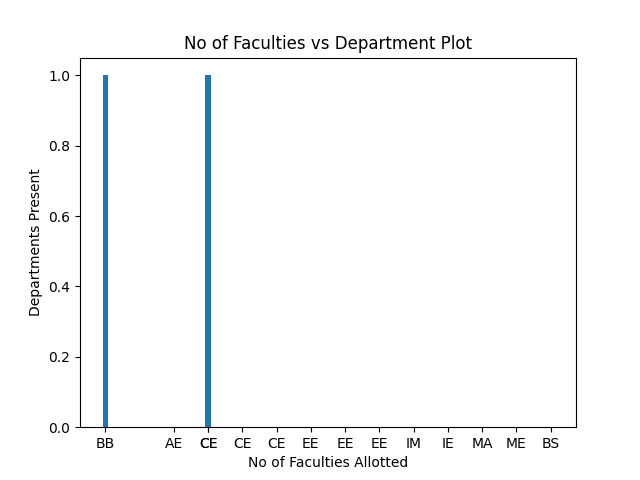
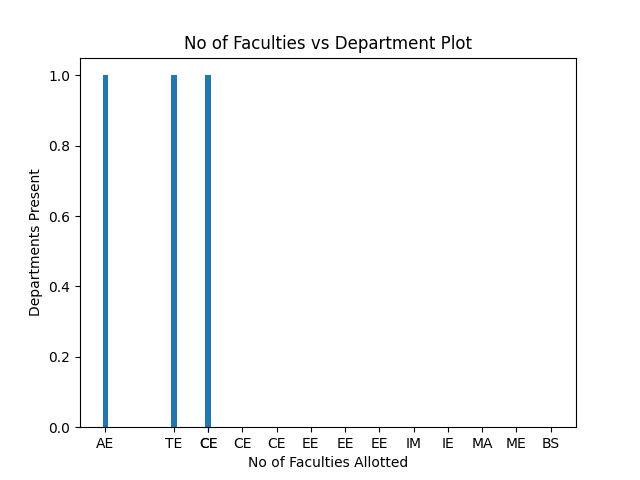
No of Faculties vs Department Plot

Changed region(s): [[0.25, 0.1562, 0.2812, 0.9375], [0.1562, 0.9062, 0.1875, 0.9375]]

diff --git a/see_invig_alloc.py b/see_invig_alloc.py
@@ -1,0 +1,190 @@
+import mysql.connector
+import math
+import random
+import matplotlib.pyplot as plt
+
+import mysql.connector
+from mysql.connector import Error
+
+
+def connect():
+    try:
+        connection = mysql.connector.connect(host="localhost",
+                                             database="SEE_INV",
+                                             user="root",
+                                             password="root@123")
+        if connection.is_connected():
+            db_Info = connection.get_server_info()
+            print("Connected to MySQL Server version ", db_Info)
+            cursor = connection.cursor(buffered=True)
+            cursor.execute("select database();")
+            record = cursor.fetchone()
+            print("You're connected to database: ", record)
+            return cursor, connection
+    except Error as e:
+        print("Error while connecting to MySQL", e)
+
+
+def get_possible_exams(cursor, connection):
+    query = "select * from EXAM"
+    cursor.execute(query)
+    records = cursor.fetchall()
+    exams = []
+    for row in records:
+        exams.append(row)
+    exams = set(exams)
+    exams = list(exams)
+    query = "select Subject_ID from SUBJECT"
+    cursor.execute(query)
+    records = cursor.fetchall()
+    subjects = []
+    for row in records:
+        subjects.append(row)
+    subjects = set(subjects)
+    subjects = list(subjects)
+    possible_exams = []
+    for i in exams:
+        for j in subjects:
+            possible_exams.append([i[0], i[1], j[0]])
+    return possible_exams
+
+
+def insert_into_has_exam(academic_year, exam_type, subject_id, cursor, connection):
+    query = "insert into HAS_EXAM(academic_year, exam_type, subject_id) values(%s, %s, %s)"
+    cursor.execute(query, (academic_year, exam_type, subject_id))
+    connection.commit()
+
+
+def insert_into_enrolled(academic_year, exam_type, subject_id, cursor, connection):
+    query = "insert into ENROLLED(academic_year, exam_type, subject_id) values(%s, %s, %s)"
+    cursor.execute(query, (academic_year, exam_type, subject_id))
+    connection.commit()
+
+
+def update_enrolled(subject_id, students_enrolled, exam_type, academic_year, cursor, connection):
+    query = "update ENROLLED set students_enrolled = %s where Subject_ID = %s and Exam_Type = %s and Academic_Year = %s"
+    cursor.execute(query, (students_enrolled, subject_id, exam_type, academic_year))
+    connection.commit()
+
+
+def insert_into_classroom(classroom_id, capacity, department_id, cursor, connection):
+    query = "insert into CLASSROOM values(%s, %s, %s)"
+    cursor.execute(query, (classroom_id, capacity, department_id))
+    connection.commit()
+
+
+def get_students_enrolled(subject_id, exam_type, academic_year, cursor, connection):
+    query = "select Students_Enrolled from ENROLLED where Subject_ID = %s and Exam_Type = %s and Academic_Year = %s"
+    cursor.execute(query, (subject_id, exam_type, academic_year))
+    records = cursor.fetchall()
+    students_enrolled = records[0][0]
+    return students_enrolled
+
+
+def get_classrooms(cursor, connection):
+    query = "select Classroom_ID, Capacity, Department_ID from CLASSROOM"
+    cursor.execute(query)
+    records = cursor.fetchall()
+    classrooms = []
+    for row in records:
+        classrooms.append(row)
+    return classrooms
+
+
+def assign_classrooms(subject_id, exam_type, academic_year, cursor, connection):
+    students_enrolled = get_students_enrolled(subject_id, exam_type, academic_year, cursor, connection)
+    available_classrooms = get_classrooms(cursor, connection)
+    used_classrooms = []
+    for i in available_classrooms:
+        x = random.randint(0, len(available_classrooms) - 1)
+        if (students_enrolled > 0 and available_classrooms[x] not in used_classrooms):
+            if (students_enrolled <= available_classrooms[x][1]):
+                used_classrooms.append(available_classrooms[x])
+                # print(available_classrooms[x][0]+', '+available_classrooms[x][2])
+                students_enrolled = 0
+            else:
+                used_classrooms.append(available_classrooms[x])
+                # print(available_classrooms[x][0]+', '+available_classrooms[x][2])
+                students_enrolled = students_enrolled - available_classrooms[x][1]
+    t = len(used_classrooms)
+    query = "update HAS_EXAM set required_invigilators = %s where Subject_ID = %s and Exam_Type = %s and Academic_Year = %s"
+    cursor.execute(query, (t, subject_id, exam_type, academic_year))
+    connection.commit()
+    for i in used_classrooms:
+        query = "insert into assigned_classrooms values(%s, %s, %s, %s, %s)"
+        cursor.execute(query, (i[0], subject_id, exam_type, academic_year, i[2]))
+
+
+def get_groups(cursor, connection):
+    query = "select Group_ID, Department_ID, Invig_count from FACULTY"
+    cursor.execute(query)
+    records = cursor.fetchall()
+    answer = []
+    for row in records:
+        answer.append(row)
+    answer = set(answer)
+    answer = list(answer)
+    return answer
+
+
+def get_invig_count(faculty_id, department_id, cursor, connection):
+    query = "select Invig_count from FACULTY where Faculty_ID = %s and Department_ID = %s"
+    cursor.execute(query, (faculty_id, department_id))
+    records = cursor.fetchall()
+    invig_count = records[0][0]
+    return invig_count
+
+
+def get_faculties_in_group(group_id, department_id, cursor, connection):
+    query = "select Faculty_ID from FACULTY where Group_ID = %s and Department_ID = %s"
+    cursor.execute(query, (group_id, department_id))
+    records = cursor.fetchall()
+    faculties = []
+    for row in records:
+        faculties.append(row[0])
+    return faculties
+
+
+def assign_faculty_classroom(faculty_id, academic_year, exam_type, classroom_id, department_id, subject_id, cursor,
+                             connection):
+    query = "insert into invigilates values(%s, %s, %s, %s, %s, %s)"
+    cursor.execute(query, (faculty_id, academic_year, exam_type, classroom_id, department_id, subject_id))
+    connection.commit()
+
+
+def get_classrooms_assigned(cursor, connection):
+    query = "select * from assigned_classrooms"
+    cursor.execute(query)
+    records = cursor.fetchall()
+    classrooms = []
+    for row in records:
+        classrooms.append(row)
+    return classrooms
+
+
+def increment_invig_count(faculty_id, department_id, cursor, connection):
+    query = "update FACULTY set Invig_count = Invig_count + 1 where Faculty_ID = %s and Department_ID = %s"
+    cursor.execute(query, (faculty_id, department_id))
+    connection.commit()
+
+
+def group_gets_assigned(classrooms, cursor, connection):
+    y = random.sample(range(0, len(classrooms)), len(classrooms) - 1)
+    while (len(y) != 0):
+        groups = get_groups(cursor, connection)
+        groups.sort(key=lambda x: x[2])
+        x = random.randint(0, 3)
+        faculties_group = get_faculties_in_group(groups[x][0], groups[x][1], cursor, connection)
+        for i in faculties_group:
+            # print(i)
+            if len(y) == 0:
+                break
+            t = y.pop()
+            # print(classrooms[t][3])
+            # print(classrooms[t][2])
+            # print(classrooms[t][0])
+            # print(classrooms[t][4])
+            # print(groups[x][1])
+            assign_faculty_classroom(i, classrooms[t][3], classrooms[t][2], classrooms[t][0], classrooms[t][4],
+                                     classrooms[t][1], cursor, connection)
+            increment_invig_count(i, groups[x][1], cursor, connection)

diff --git a/run.py b/run.py
@@ -1,0 +1,47 @@
+import see_invig_alloc as s
+import matplotlib.pyplot as plt
+
+cursor, connection = s.connect()
+query = "delete from has_exam"
+cursor.execute(query)
+connection.commit()
+query = "delete from assigned_classrooms"
+cursor.execute(query)
+connection.commit()
+query = "update faculty set Invig_count=0"
+cursor.execute(query)
+connection.commit()
+query = "delete from invigilates"
+cursor.execute(query)
+connection.commit()
+
+# cursor, connection = s.connect()
+possible_exams = s.get_possible_exams(cursor, connection)
+for i in possible_exams:
+    s.insert_into_has_exam(i[0], i[1], i[2], cursor, connection)
+    # For initial connect to database, uncomment the below line, and fill the students enrolled value
+    # s.insert_into_enrolled(i[0], i[1], i[2], cursor, connection)
+
+for i in possible_exams:
+    s.assign_classrooms(i[2], i[1], i[0], cursor, connection)
+
+groups = s.get_groups(cursor, connection)
+
+classrooms_to_be_assigned = s.get_classrooms_assigned(cursor, connection)
+
+s.group_gets_assigned(classrooms_to_be_assigned, cursor, connection)
+
+query = "select Faculty_ID, Invig_count from FACULTY"
+cursor.execute(query)
+records = cursor.fetchall()
+faculty = []
+invig_count = []
+for row in records:
+    faculty.append(row[0])
+    invig_count.append(row[1])
+plt.bar(faculty, invig_count)
+plt.xlabel("Faculty ID")
+plt.ylabel("Invigilator Count")
+plt.show()
+
+connection.close()

diff --git a/main.py b/main.py
@@ -356,7 +356,36 @@ def view_swap_requests():
 
 @app.route('/plot')
 def plot():
-    pass
+    plt.switch_backend('agg')
+    grouped_up_data = db.session.query(Faculty.dept_name, func.count(Faculty.dept_name).label("total_count")).group_by(
+        Faculty.dept_name).all()
+    fields = [i[0] for i in grouped_up_data]
+    for i in DEPARTMENT_NAMES:
+        if i in fields:
+            pass
+        else:
+            grouped_up_data.append((i, 0))
+    print(grouped_up_data)
+    fields = [i[0] for i in grouped_up_data]
+    left = [5, 20, 15, 20, 25, 30, 35, 40, 45, 50, 55, 60, 65, 70]
+    # heights of bars
+    # height = [1, 2, 3, 4, 5, 6, 7, 8, 9, 10, 11, 12, 13, 14]
+    height = [i[1] for i in grouped_up_data]
+    # labels for bars
+    abrev = [i.split(" ") for i in fields]
+    tick_label = [f"{i[0][0]}{i[len(i) - 1][0]}" for i in abrev]
+    # plotting a bar chart
+    plt.bar(left, height, tick_label=tick_label, width=0.8)
+
+    # naming the y-axis
+    plt.ylabel('Departments Present')
+    # naming the x-axis
+    plt.xlabel('No of Faculties Allotted')
+    # plot title
+    plt.title('No of Faculties vs Department Plot')
+
+    plt.savefig('static/img/plot.png')
+    return render_template('plot.html', url='/static/img/plot.png')
 
 
 @app.route('/admin/approve-swap', methods=['GET', 'POST'])
